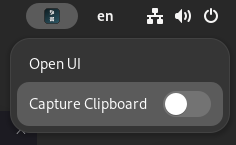
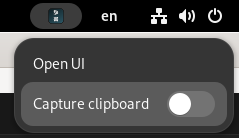
Update README

diff --git a/README.md b/README.md
@@ -45,6 +45,8 @@ Wildcard searching:
 
 > **Note:** Currently only suffixes are support.
 
+<br>
+
 ## Building for Fedora GNOME
 
 To build an rpm package which is suitable for Fedora GNOME, you can do the following:
@@ -74,7 +76,9 @@ in the background. Starting the application will open up the browser UI.
 
 ![Desktop entry](gfx/desktop.png)
 
-#### Clipboard monitoring
+<br>
+
+#### Capture the clipboard on GNOME
 
 Since GNOME and Wayland desktop environments in general currently do not have
 any facilities to monitor the clipboard, extensions for each environment has
@@ -85,6 +89,13 @@ manager after installation (and possibly logging in and out).
 
 ![Gnome extension](gfx/gnome-extension.png)
 
-Once enabled, clipboard monitoring has to be enabled in the panel item.
+Once enabled, clipboard capture has to be enabled in the panel item.
 
 ![GNOME clipboard capture](gfx/gnome-clipboard-capture.png)
+
+![Alt text](gfx/gnome-clipboard-capture-enabled.png)
+
+> **Note:** while clipboard capture is running the extension icon will be red.
+> Only enable it while it's in use since there are currently no security
+> mechanisms in place other than your local system. Any application could
+> pretend to be a dictionary application and capture the clipboard.
